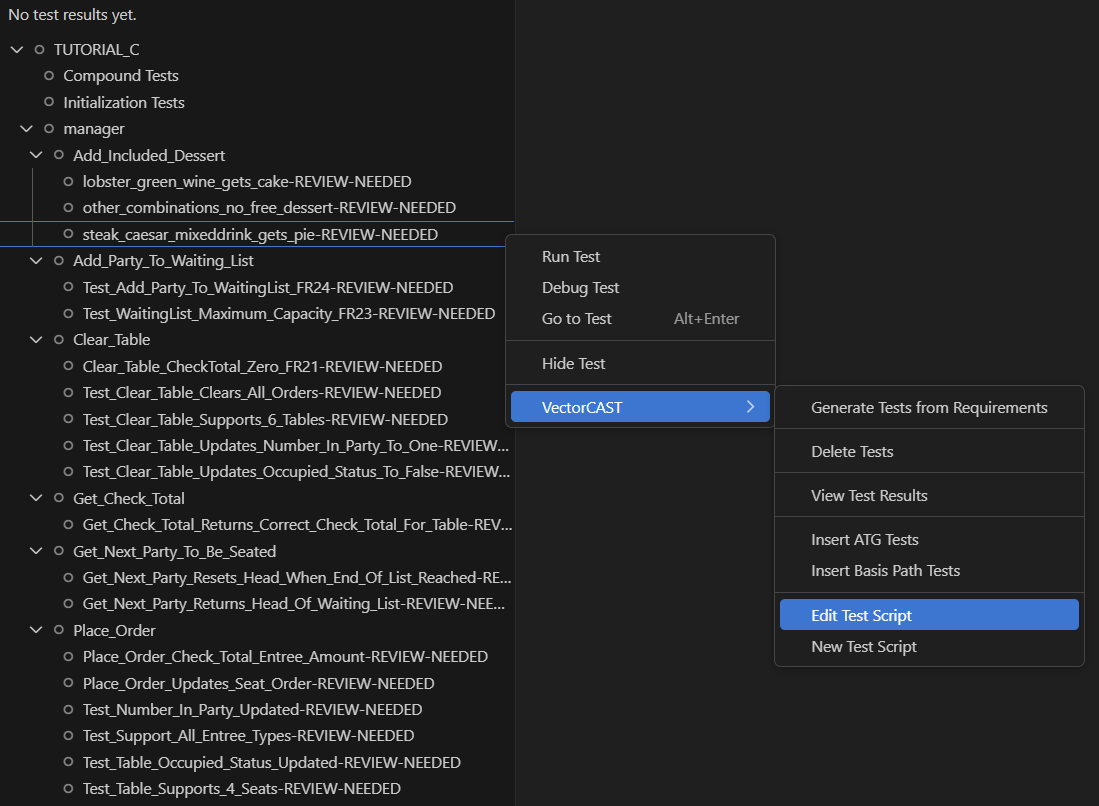
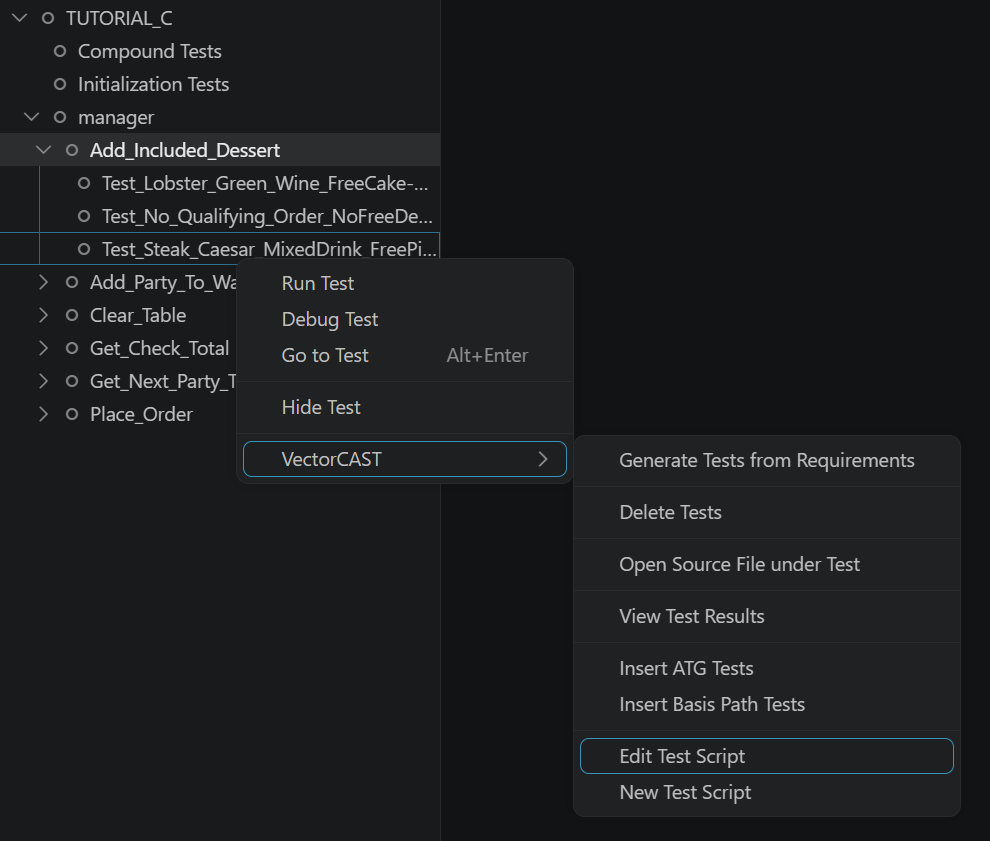
Make documentation match the latest UI layout

diff --git a/docs/reqs2x/TUTORIAL_C/manager.c b/docs/reqs2x/TUTORIAL_C/manager.c
@@ -18,13 +18,13 @@ void Add_Included_Dessert(struct order_type* Order)
      Order->Salad == CAESAR &&
      Order->Beverage == MIXED_DRINK) {
     
-    Order->Dessert = CAKE;
+    Order->Dessert = PIE;
   
   } else if(Order->Entree == LOBSTER &&
             Order->Salad == GREEN &&
             Order->Beverage == WINE) {
     
-    Order->Dessert = PIE;  
+    Order->Dessert = CAKE;
   }
 }
 

diff --git a/docs/reqs2x/reqs2x_documentation.md b/docs/reqs2x/reqs2x_documentation.md
@@ -1,5 +1,14 @@
 # VectorCAST Reqs2x Documentation and Tutorial
 
+> **⚠ Recently changed — requirements now live in the Requirements Gateway (RGW).**
+>
+> Requirements used to be stored as `reqs.xlsx` / `reqs.csv` files under `reqs-<env>/`. They now live in a **Requirements Gateway (RGW)** inside each environment, which is the single source of truth the extension reads from and writes to.
+>
+> **Have an existing environment with a legacy `reqs.xlsx` / `reqs.csv`?** When you open or build it, the other requirements actions are hidden and only **Migrate Legacy Requirements** is shown (the extension also offers it automatically). Run it from the environment's right-click menu — **VectorCAST → Migrate Legacy Requirements** — or from the Command Palette (**VectorCAST Test Explorer: Migrate Legacy Requirements**). It imports the legacy file into the RGW and renames the original to `reqs_migrated.*` as a backup; if an RGW already exists, you choose whether to overwrite it from the file or keep the existing gateway.
+>
+> The tutorial below covers the current happy path (a clean CSV import) — you only need migration for environments created before this change.
+
+![Migrating legacy requirements to the RGW](./screenshots/VectorCAST_Reqs2x_migrate_legacy_requirements.png)
 
 ## Overview
 
@@ -10,7 +19,7 @@ The **VectorCAST Reqs2x tools** provide LLM-powered capabilities for requirement
 - **Generate VectorCAST test cases from requirements** 
 
 
-All tools require a configured LLM provider to function. The tools support multiple LLM providers including Azure OpenAI, OpenAI, Anthropic, LiteLLM, Azure APIM, and OpenAI Access Token.  
+All tools require a configured LLM provider to function. The tools support multiple LLM providers including Azure OpenAI, OpenAI, Anthropic and LiteLLM.
 
 This manual demonstrates Reqs2x usage workflows from inside this VS-Code extension using the `TUTORIAL_C` demo environment. Before starting, ensure you have the necessary components ready.
 
@@ -30,7 +39,7 @@ Remove any existing versions of the VectorCAST VS-Code extension.
 
 #### If you are using VectorCAST 2026:
 1.  **License Setup**: Ensure your VectorCAST license is configured. Point `VECTORCAST_DIR` to your release.
-2.  **Open Project**: Create a new directory named `TUTORIAL_C` and copy the contents of `$VECTORCAST_DIR/tutorial/c` directory into it, then open it in VS-Code.
+2.  **Open Project**: Copy the `TUTORIAL_C` directory sitting directly next to this tutorial in the vscode-vector-vcast repository, then open it in VS-Code.
 
 
 ### VS Code Extensions
@@ -42,23 +51,22 @@ Remove any existing versions of the VectorCAST VS-Code extension.
 3.  Configure the following settings:
     *   **Vectorcast Test Explorer › Reqs2x: Installation Location**: 
     - If you are using a demo release, point this to the `autoreq-win/distribution/bin` folder you extracted earlier.
-    - If you are using VectorCAST 2026, point this to your VectorCAST release folder ($VECTORCAST_DIR)
+    - If you are using VectorCAST 2026, point this to your VectorCAST release folder ($VECTORCAST_DIR) or leave it blank (automatically uses Reqs2x directly from the VectorCAST release)
     *   **Vectorcast Test Explorer › Reqs2x: Provider**:
     Select the large language model provider you intend to use from the dropdown menu
-        * **Note**: Most providers support the `openai` API. This includes `Google`, `AWS Bedrock`, as well as open-source model-serving methods like `ollama`, `vLLM` and `SG-Lang`. Use [LiteLLM](https://github.com/BerriAI/litellm) for any provider not supporting `openai`/`openai_azure` API. 
-    *   For the provider you selected, fill in:
-        - **Vectorcast Test Explorer › Reqs2x > <YourProvider>: Base Url**
+        * **Note**: Most providers support the `openai` API. This includes `Google`, `AWS Bedrock`, as well as open-source model-serving methods like `ollama`, `vLLM` and `SG-Lang`. You can use [LiteLLM](https://github.com/BerriAI/litellm) for any provider not supporting `openai`/`openai_azure` API.
+    *   For the provider you selected, fill in its fields. The settings shown adapt to the chosen provider, so the exact fields vary. Taking **OpenAI** as the example, fill in:
+        - **Vectorcast Test Explorer › Reqs2x > Openai: Base Url**
         
-            This is your large language model endpoint.
-        - **Vectorcast Test Explorer › Reqs2x > <YourProvider>: Api Key** 
+            Your large language model endpoint. **Note**: for on-prem providers like `ollama` and `vLLM` this is the local endpoint.
+        - **Vectorcast Test Explorer › Reqs2x > Openai: Api Key** 
         
             The API key for your provider. **Note**: for on-prem providers like `ollama` and `vLLM` you can set this field to `none`.
-        
-        - **Vectorcast Test Explorer › Reqs2x > <YourProvider>: Model Name** 
+        - **Vectorcast Test Explorer › Reqs2x > Openai: Model Name** 
             
             Name of the large language model you will be using. For example: `gpt-4.1`, `gpt-4.1-mini`, `Qwen/Qwen3-30B-A3B-Instruct-2507` (from `Hugging Face`), `gpt-oss:20b` (from `ollama`) etc.
-        - **Vectorcast Test Explorer › Reqs2x > <YourProvider>: Deployment Name** 
-            Name of the large languge model deployment you intend to use - you may have multiple deployments of the same large language model.
+
+        Other providers expose the fields they need — for example **Azure** additionally requires a **Deployment** (the name of your model deployment) and an **API Version**, **Anthropic** takes just an API key and model name (no base URL), and **LiteLLM** is configured through provider environment variables instead of an API-key field.
 
     *   **Vectorcast Test Explorer › Reqs2x: Generation Language**
 
@@ -79,32 +87,42 @@ Remove any existing versions of the VectorCAST VS-Code extension.
     Tick this box if you are using `Reqs2x` for generating requirements from code and want to generate module-level requirements
     *   **Vectorcast Test Explorer › Reqs2x: Output Debug Info**:
     Tick this box to log more details during requirement/test generation. The logs can be found in the `OUTPUT` tab of the VS-Code bottom bar by selecting `VectorCAST Requirement Test Generation Operations` from the output channel dropdown menu in the lower-right corner.
-
-
-![VS Code LLM Provider Settings for Reqs2x](./screenshots/VectorCAST_Reqs2x_optional_settings.png)
+    *   **Vectorcast Test Explorer › Reqs2x: Retries** (default `2`):
+    Number of retries during test generation. **Note**: high values (over 3) can increase cost and processing time.
+    *   **Vectorcast Test Explorer › Reqs2x: Reorder** (enabled by default):
+    Reorder test cases written to the file. Disable for easier investigation of incremental results.
+    *   **Vectorcast Test Explorer › Reqs2x: No Test Examples**:
+    Tick this box to stop supplying additional test examples to the LLM during test generation.
+    *   **Vectorcast Test Explorer › Reqs2x: Function Definitions** (enabled by default):
+    Supply function definitions to the language model during test generation. Disable for blackbox-style testing.
+    *   **Vectorcast Test Explorer › Reqs2x: Enable UUT Stubbing** (enabled by default):
+    Enable stubbing of functions in the unit-under-test in the generated tests.
+    *   **Vectorcast Test Explorer › Reqs2x: Model Compatibility Mode**:
+    Tick this box to run the Reqs2x tools without structured outputs, enabling compatibility with more LLM providers.
 
 ### Environment Setup
 1.  In the Explorer view, right-click the `.CFG` file and select **Set as VectorCAST Configuration file**.
-2.  Ensure `ENVIRO.SEARCH_LIST` is set to `.` for code coverage.
-3.  Right-click `TUTORIAL_C.env` and select **Build VectorCAST environment**.
+2.  Right-click `TUTORIAL_C.env` and select **Build VectorCAST environment**.
 
 
 ---
 
 ## 2. Generating Tests from Requirements
 
-The demo release ships with requirements including requirements-to-code traceability. To use them, import them into the environment which will set up a requirements gateway (RGW). The RGW is the single source of truth — the extension reads from and writes to it directly.
+The demo environment ships with a requirements CSV (`requirements.csv`) that already includes requirements-to-code traceability. To use them, import the CSV into the environment, which sets up a requirements gateway (RGW). The RGW then becomes the single source of truth — the extension reads from and writes to it directly.
 
-![Reqs2x demo requirements](./screenshots/VectorCAST_Reqs2x_demo_requirements.png)
+![Reqs2x demo requirements CSV](./screenshots/VectorCAST_Reqs2x_demo_requirements.png)
 
 
 
 ### Initial Setup
 1.  Click the **Flask icon** (Test Explorer) on the left sidebar to show the environment tree.
-2.  Right-click `TUTORIAL_C` and select **VectorCAST -> Import Requirements**. Choose the file `reqs-TUTORIAL_C/reqs.xlsx`. This will load the requirements into the environment.
-3.  Right-click `TUTORIAL_C` and select **VectorCAST -> Show Requirements**. The requirements webview will appear, rendered directly from the RGW.
+2.  Right-click `TUTORIAL_C` and select **VectorCAST -> Import Requirements**. Choose the file `requirements.csv` (in the `TUTORIAL_C` folder). This loads the requirements into the environment and creates the RGW.
+3.  Right-click `TUTORIAL_C` and select **VectorCAST -> Show Requirements**. The requirements webview appears, rendered directly from the RGW. It's interactive: search and filter by unit/function, edit requirement text and traceability, infer missing traceability with the LLM, and save changes back to the RGW.
 ![Reqs2x demo show requirements](./screenshots/VectorCAST_Reqs2x_show_requirements.png)
 ![Reqs2x demo requirements webview](./screenshots/VectorCAST_Reqs2x_requirements_webview.png)
+
+> **Editable vs. read-only requirements.** Requirements are editable in the webview when they were imported from a non-RGW source (the CSV here) or generated by Reqs2x. The demo environment already has traceability (the unit and function each requirement describes), but for your own requirements, configuring and inferring traceability from the webview is very handy. If an environment's requirements come from a pre-existing RGW that points to an external management tool such as DOORS or Polarion, only the (local) traceability can be edited — the requirement text stays read-only.
 
 ### Test Generation
 1.  Right-click `TUTORIAL_C` and select **VectorCAST -> Generate Tests from Requirements**.
@@ -116,7 +134,7 @@ The demo release ships with requirements including requirements-to-code traceabi
 ### Reviewing Results
 1.  **Analyze Requirements**:
     *   Open the Requirements webview and place it side-by-side with `manager.c`.
-    *   Locate `FR27 Add Included Dessert`. Note that it describes **three distinct behaviors** 
+    *   Search for `FR27` in the search bar. Note that it describes **three distinct behaviors** 
         (2 order combinations that qualify for different free dessert and no dessert for any other order combination).
     *   The system decomposes this into atomic requirements and generates corresponding tests.
 2.  **Verify Tests**:
@@ -139,15 +157,15 @@ The demo release ships with requirements including requirements-to-code traceabi
 
 
 1.  **Modify requirement**:
-    *   Edit the requirement directly in the requirements gateway (RGW) in the Requirements view. Open it by selecting ``VectorCAST -> Show Requirements`.
+    *   Edit the requirement directly in the requirements gateway (RGW) in the Requirements view. Open it by selecting **VectorCAST -> Show Requirements**.
     *   Find `FR27` (Add Included Dessert).
     *   Change the free dessert for `steak, caesar salad and mixed drink` from `pie` to `cake`.
     *   Change the free dessert for `lobster, green salad and wine` from `cake` to `pie`.
-    *   Save the change. The extension always reads from the RGW, so no further sync step is required.
+    *   Click **Save changes** in the requirements webview toolbar to persist the edits. The extension always reads from the RGW, so no further sync step is required.
 
 2.  **Update tests**:
     *   In Test Explorer, find the `Add_Included_Dessert` node.
-    *   Right-click `Add_Included_Dessert` and select **VectorCAST -> DeleteTests**.
+    *   Right-click `Add_Included_Dessert` and select **VectorCAST -> Delete Tests**.
     *   Right-click `Add_Included_Dessert` again and select **VectorCAST -> Generate Tests from Requirements**.
         * This will generate tests only for the requirements related to `Add_Included_Dessert` function.
 
@@ -192,7 +210,7 @@ You can also generate requirements directly from existing code.
 2.  **Configuration (Optional)**:
     *   In Settings, enable **Vectorcast Test Explorer › Reqs2x: Generate High Level Requirements** if desired.
 
-![Reqs2x remove requirements](./screenshots/VectorCAST_Reqs2x_HLR_setting.png)
+![Reqs2x generate high-level requirements setting](./screenshots/VectorCAST_Reqs2x_HLR_setting.png)
 
 3.  **Generate**:
     *   Right-click `TUTORIAL_C` -> **VectorCAST -> Generate Requirements**.
@@ -207,6 +225,6 @@ You can also generate requirements directly from existing code.
 ![Reqs2x review module-level requirements](./screenshots/VectorCAST_Reqs2x_high_level_requirements.png)
 5.  **Generate Tests**:
     *   Right-click `TUTORIAL_C` -> **VectorCAST -> Generate Tests from Requirements**.
-    *   **Note**: We can observe that more tests get generated from generated requirements then from the original requirements (24 instead of 17). This is due to generated requirements being more fine-grained and exhaustively describing the implementation.
+    *   **Note**: We can observe that more tests get generated from generated requirements then from the original requirements. This is due to generated requirements being more fine-grained and exhaustively describing the implementation.
 
 ![Reqs2x generate tests from generated requirements](./screenshots/VectorCAST_Reqs2x_generate_tests_from_generated_reqs.png)
